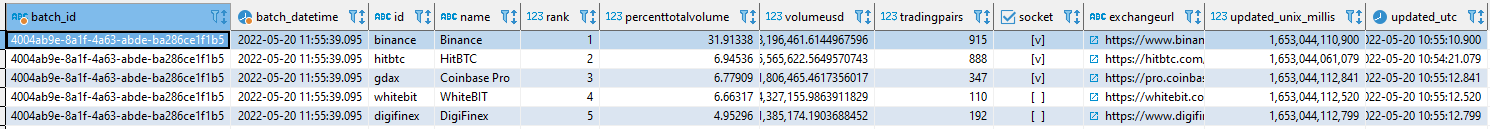
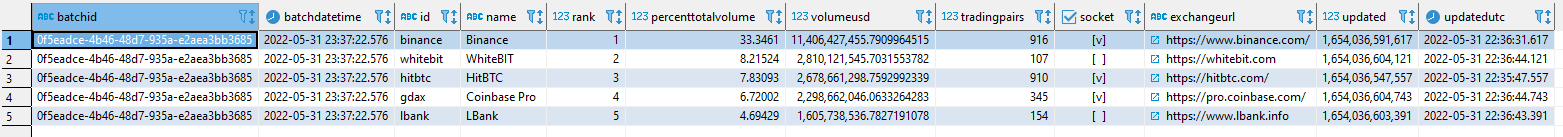
Update Column names & images

diff --git a/xlib/utils.py b/xlib/utils.py
@@ -26,22 +26,22 @@ def _get_utc_from_unix_time(unix_ts: Optional[Any], second: int = 1000) -> Optio
 def _get_exchange_insert_query() -> str:
     return """
     INSERT INTO crypto.exchange (
-        batch_id,
-        batch_datetime,
+        batchId,
+        batchDatetime,
         id,
         name,
         rank,
-        percenttotalvolume,
-        volumeusd,
-        tradingpairs,
+        percentTotalVolume,
+        volumeUsd,
+        tradingPairs,
         socket,
-        exchangeurl,
-        updated_unix_millis,
-        updated_utc
+        exchangeUrl,
+        updated,
+        updatedUTC
     )
     VALUES (
-        %(batch_id)s,
-        %(batch_datetime)s,
+        %(batchId)s,
+        %(batchDatetime)s,
         %(exchangeId)s,
         %(name)s,
         %(rank)s,
@@ -51,7 +51,7 @@ def _get_exchange_insert_query() -> str:
         %(socket)s,
         %(exchangeUrl)s,
         %(updated)s,
-        %(update_dt)s
+        %(updatedUTC)s
     );"""
 
 

diff --git a/run_etl.py b/run_etl.py
@@ -11,13 +11,13 @@ def extract(url):
 
 
 def transform_enrich(data):
-    batch_id = str(uuid4())
-    batch_datetime = datetime.now()
+    batchId = str(uuid4())
+    batchDatetime = datetime.now()
     # Add batch_id & current date to data before inserting
     for d in data:
-        d["batch_id"] = batch_id
-        d["batch_datetime"] = batch_datetime
-        d["update_dt"] = _get_utc_from_unix_time(d.get("updated"))
+        d["batchId"] = batchId
+        d["batchDatetime"] = batchDatetime
+        d["updatedUTC"] = _get_utc_from_unix_time(d.get("updated"))
     return data
 
 
